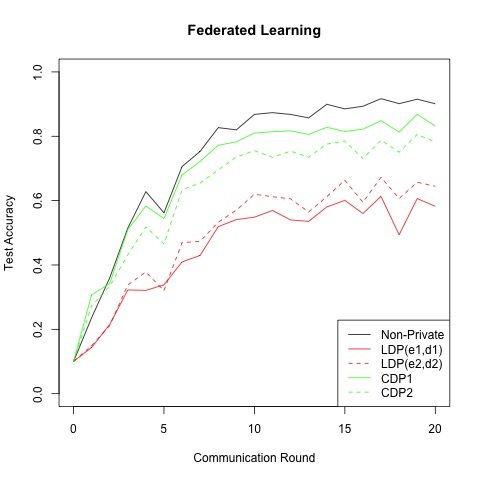
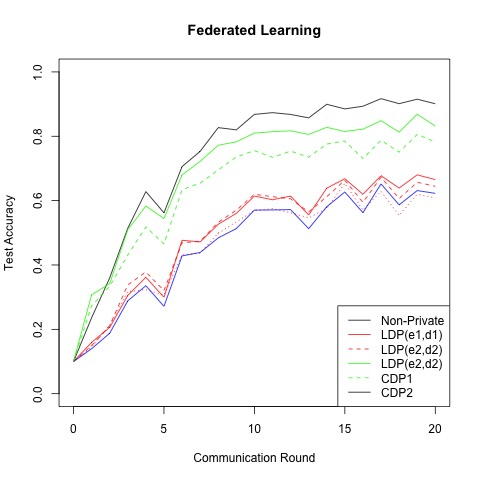
Initial results for private FL and protecting against random and backdoor attacks.

diff --git a/src/update.py b/src/update.py
@@ -56,6 +56,7 @@ class LocalUpdate(object):
                                 batch_size=int(len(idxs_test)/10), shuffle=False)
         return trainloader, validloader, testloader
 
+    # LOCAL UPDATES
     def update_weights(self, model, change=1):
         # ALGORITHM 1 from: https://arxiv.org/pdf/1712.07557.pdf
         # change=0 returns: local weights, L2 norm of local weights
@@ -102,6 +103,8 @@ class LocalUpdate(object):
         ## ALGORITHM 1 ##
         #################
 
+        S = norm_bound
+
         # Set mode to train model
         model.train()
         epoch_loss = []
@@ -140,9 +143,11 @@ class LocalUpdate(object):
                 for name, param in model.named_parameters():
                     g_norms += param.grad1.flatten(1).norm(2, dim=1) ** 2
 
+                #print(np.median(g_norms**0.5))
+
                 # Clipping factor =  min(1, C / norm(gi)) ....OR.... max(1, norm(gi) / C)
+                norm_bound = min(S, np.median(g_norms ** 0.5))
                 clip_factor = torch.clamp(g_norms ** 0.5 / norm_bound, min=1)
-                #print(np.median(g_norms ** 0.5))
 
                 # Clip each gradient
                 for param in model.parameters():
@@ -172,85 +177,7 @@ class LocalUpdate(object):
 
         return model.state_dict(), sum(epoch_loss) / len(epoch_loss)
 
-    def dp_sgd_accountant(self, model, global_round, norm_bound, noise_scale, epsilon, delta, m):
-        #################
-        ## ALGORITHM 1 ##
-        #################
-
-        # Set mode to train model
-        model.train()
-        epoch_loss = []
-
-        model_dummy = copy.deepcopy(model)
-
-        # Set optimizer for the local updates
-        if self.args.optimizer == 'sgd':
-            optimizer = torch.optim.SGD(model.parameters(), lr=self.args.lr, momentum=0.0)
-        elif self.args.optimizer == 'adam':
-            optimizer = torch.optim.Adam(model.parameters(), lr=self.args.lr, weight_decay=1e-4)
-
-        # for each epoch (1...E)
-        for iter in range(self.args.local_ep):
-
-            batch_loss = []
-
-            # for each batch
-            for batch_idx, (images, labels) in enumerate(self.trainloader):
-
-                # add hooks for per sample gradients
-                model.zero_grad()
-                autograd_hacks.add_hooks(model)
-
-                # Forward pass, compute loss, backwards pass
-                log_probs = model(torch.FloatTensor(images))
-                loss = self.criterion(log_probs, labels)
-                loss.backward(retain_graph=True)
-
-                # Per-sample gradients g_i
-                autograd_hacks.compute_grad1(model)
-                autograd_hacks.disable_hooks()
-
-                # Compute L2^2 norm for each g_i
-                g_norms = torch.zeros(labels.shape)
-                for name, param in model.named_parameters():
-                    if 'bias' not in name:
-                        g_norms += param.grad1.data.norm(2, dim=(1, 2)) ** 2
-                    else:
-                        g_norms += param.grad1.data.norm(2, dim=1) ** 2
-
-                # Clipping factor =  min(1, C / norm(gi)) ....OR.... max(1, norm(gi) / C)
-                clip_factor = torch.clamp(g_norms ** 0.5 / norm_bound, min=1)
-                #print(np.percentile(g_norms ** 0.5, [25, 50, 75]))
-
-                # Clip each gradient
-                for param in model.parameters():
-                    for i in range(len(labels)):
-                        param.grad1.data[i] /= clip_factor[i]
-
-                # Noisy batch update
-                for param in model.parameters():
-                    # batch average of clipped gradients
-                    param.grad = param.grad1.mean(dim=0)
-
-                    # add noise
-                    param.grad += torch.randn(param.size()) * norm_bound * noise_scale / len(labels)
-
-                    # update weights
-                    param.data -= self.args.lr * param.grad.data
-
-                # revert model back to proper format (per-sample gradients messed it up a bit)
-                model_dummy.load_state_dict(model.state_dict())
-                model = copy.deepcopy(model_dummy)
-
-                # Record loss
-                batch_loss.append(loss.item())
-
-            # Append loss, go to next epoch...
-            epoch_loss.append(sum(batch_loss) / len(batch_loss))
-
-        return model.state_dict(), sum(epoch_loss) / len(epoch_loss)
-
-    def participant_update_Alg2(self, model, global_round):
+    def participant_update_Alg2(self, model, norm_bound, noise_scale):
         # ALGORITHM 2 from: https://arxiv.org/pdf/2009.03561.pdf
 
 
@@ -307,6 +234,7 @@ class LocalUpdate(object):
 
         return model.state_dict(), del_norm
 
+    # RANDOM ATTACKS
     def poisoned_SGA(self, model, change=1):
         # Poisoned attack by doing gradient ASCENT
         # ALGORITHM 1 from: https://arxiv.org/pdf/1712.07557.pdf
@@ -361,9 +289,6 @@ class LocalUpdate(object):
         zeta_norm = zeta_norm ** (1. / 2)
 
         return model.state_dict(), zeta_norm
-
-
-
 
     def poisoned_ldp(self, model, norm_bound, noise_scale):
         # Set mode to train model
@@ -439,7 +364,7 @@ class LocalUpdate(object):
 
         return model.state_dict(), sum(epoch_loss) / len(epoch_loss)
 
-
+    # PIXEL ATTACKS
     def pixel_attack(self, model, epochs):
 
         # Set mode to train model
@@ -468,7 +393,7 @@ class LocalUpdate(object):
                 labels[to_change] *= 0  # label as 0
                 images[to_change, 0, 27, 27] = 2.80  # change bottom right pixel
                 #fig = plt.figure
-                #plt.imshow(images[0, 0], cmap='gray')
+                #plt.imshow(images[to_change[0], 0], cmap='gray')
                 #plt.show()
 
                 # Compute accumulated gradients of loss
@@ -574,7 +499,7 @@ class LocalUpdate(object):
 
         return model.state_dict(), sum(epoch_loss) / len(epoch_loss)
 
-
+    # 1 TO 7 ATTACKS
     def poisoned_1to7(self, model, change=1):
 
         # Set mode to train model

diff --git a/src/poisoned_pixel.py b/src/poisoned_pixel.py
@@ -130,7 +130,100 @@ def poisoned_pixel_NoDefense(nb_attackers, seed=1):
     np.savetxt('../save/PixelAttack/BackdoorAcc/NoDefense_{}_{}_attackers{}_seed{}.txt'.
                format(args.dataset, args.model, nb_attackers, s), backdoor_accuracy)
 
+def poisoned_pixel_LDP(norm_bound, noise_scale, nb_attackers, seed=1):
+    start_time = time.time()
 
+    # define paths
+    path_project = os.path.abspath('..')
+    logger = SummaryWriter('../logs')
+
+    args = args_parser()
+    exp_details(args)
+
+    # set seed
+    torch.manual_seed(seed)
+    np.random.seed(seed)
+
+    # device
+    device = torch.device("cuda" if torch.cuda.is_available() else "cpu")
+
+    # load dataset and user groups
+    train_dataset, test_dataset, user_groups = get_dataset(args)
+
+    # BUILD MODEL
+    if args.model == 'cnn':
+        # Convolutional neural netork
+        if args.dataset == 'mnist':
+            global_model = CNNMnist(args=args)
+        elif args.dataset == 'fmnist':
+            global_model = CNNFashion_Mnist(args=args)
+        elif args.dataset == 'cifar':
+            global_model = CNNCifar(args=args)
+
+    elif args.model == 'mlp':
+        # Multi-layer preceptron
+        img_size = train_dataset[0][0].shape
+        len_in = 1
+        for x in img_size:
+            len_in *= x
+            global_model = MLP(dim_in=len_in, dim_hidden=64,
+                               dim_out=args.num_classes)
+    else:
+        exit('Error: unrecognized model')
+
+    # Set the model to train and send it to device.
+    global_model.to(device)
+    global_model.train()
+    print(global_model)
+
+    # copy weights
+    global_weights = global_model.state_dict()
+
+    # testing accuracy for global model
+    testing_accuracy = [0.1]
+    backdoor_accuracy = [0.1]
+
+    for epoch in tqdm(range(args.epochs)):
+        local_w, local_norms = [], []
+        print(f'\n | Global Training Round : {epoch+1} |\n')
+
+        global_model.train()
+        m = max(int(args.frac * args.num_users), 1)
+        idxs_users = np.random.choice(range(args.num_users), m, replace=False)
+
+        # Poisonous updates
+        for idx in idxs_users[0:nb_attackers]:
+            local_model = LocalUpdate(args=args, dataset=train_dataset, idxs=user_groups[idx], logger=logger)
+            w, _ = local_model.pixel_ldp(model=copy.deepcopy(global_model), norm_bound=norm_bound, noise_scale=noise_scale)
+            local_w.append(copy.deepcopy(w))
+
+        # Regular updates
+        for idx in idxs_users[nb_attackers:]:
+            local_model = LocalUpdate(args=args, dataset=train_dataset, idxs=user_groups[idx], logger=logger)
+            w, _ = local_model.dp_sgd(model=copy.deepcopy(global_model), norm_bound=norm_bound, noise_scale=noise_scale)
+            local_w.append(copy.deepcopy(w))
+
+        # update global weights
+        global_weights = average_weights(local_w)
+        global_model.load_state_dict(global_weights)
+
+        # test accuracy
+        test_acc, test_loss, backdoor = test_backdoor_pixel(args, global_model, test_dataset)
+        testing_accuracy.append(test_acc)
+        backdoor_accuracy.append(backdoor)
+
+        print("Testing & Backdoor accuracies")
+        print(testing_accuracy)
+        print(backdoor_accuracy)
+
+    # save test accuracy
+    np.savetxt('../save/PixelAttack/TestAcc/LDP_{}_{}_clip{}_scale{}_attackers{}_seed{}.txt'.
+               format(args.dataset, args.model, norm_bound, noise_scale, nb_attackers, s),
+               testing_accuracy)
+
+    np.savetxt('../save/PixelAttack/BackdoorAcc/LDP_{}_{}_clip{}_scale{}_attackers{}_seed{}.txt'.
+               format(args.dataset, args.model, norm_bound, noise_scale, nb_attackers, s),
+               backdoor_accuracy)
 
 
 def poisoned_pixel_CDP(norm_bound, noise_scale, nb_attackers, seed=1):
@@ -250,11 +343,11 @@ def poisoned_pixel_CDP(norm_bound, noise_scale, nb_attackers, seed=1):
                format(args.dataset, args.model, norm_bound, noise_scale, nb_attackers, s),
                backdoor_accuracy)
 
-
 if __name__ == '__main__':
 
     nb_attackers = 2
 
     for s in range(5):
         #poisoned_pixel_NoDefense(nb_attackers=nb_attackers, seed=s)
-        poisoned_pixel_CDP(norm_bound=2.2, noise_scale=0.1, nb_attackers=nb_attackers, seed=s)
+        #poisoned_pixel_CDP(norm_bound=2.2, noise_scale=0.1, nb_attackers=nb_attackers, seed=s)
+        poisoned_pixel_LDP(norm_bound=2.2, noise_scale=0.1, nb_attackers=nb_attackers, seed=s)

diff --git a/src/private_FL.py b/src/private_FL.py
@@ -171,8 +171,7 @@ def local_DP_FL(norm_bound, noise_scale, seed=1):
         # Local Client Updates
         for idx in idxs_users:
             local_model = LocalUpdate(args=args, dataset=train_dataset, idxs=user_groups[idx], logger=logger)
-            w, _ = local_model.dp_sgd(model=copy.deepcopy(global_model),
-                                          norm_bound=norm_bound, noise_scale=noise_scale)
+            w, _ = local_model.dp_sgd(model=copy.deepcopy(global_model), norm_bound=norm_bound, noise_scale=noise_scale)
             local_w.append(w)
 
         # update global weights
@@ -304,9 +303,9 @@ if __name__ == '__main__':
         ## Local DP
         #local_DP_FL(norm_bound=3.2, noise_scale=0.5, seed=s)
         #local_DP_FL(norm_bound=1.6, noise_scale=0.25, seed=s)
+        local_DP_FL(norm_bound=3.2, noise_scale=0.1, seed=s)
 
         ## Central DP
         #central_DP_FL(norm_bound=3.2, noise_scale=0.05, seed=s)
-        central_DP_FL(norm_bound=2.2, noise_scale=0.1, seed=s)
-
+        #central_DP_FL(norm_bound=2.2, noise_scale=0.1, seed=s)
         #central_DP_FL(norm_bound=3.2, noise_scale=0.5, seed=s)

diff --git a/src/federated_main.py b/src/federated_main.py
@@ -39,7 +39,6 @@ if __name__ == '__main__':
 
     testing_accuracy = [0]
 
-
     # BUILD MODEL
     if args.model == 'cnn':
         # Convolutional neural netork
